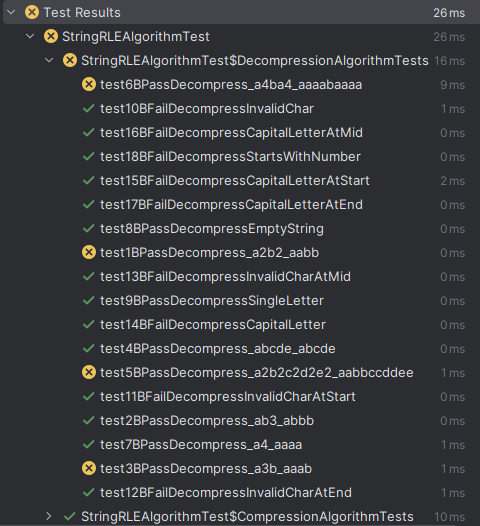
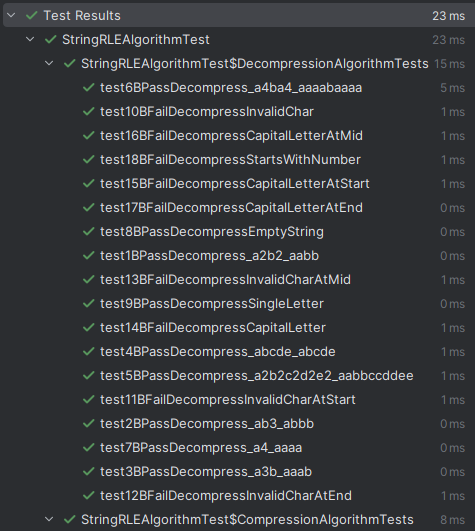
fix: Decompress repeating chars one too many times

diff --git a/src/main/java/vortrox/rle/StringRLEAlgorithm.java b/src/main/java/vortrox/rle/StringRLEAlgorithm.java
@@ -60,7 +60,7 @@ public class StringRLEAlgorithm {
             } else {
                 if (digits.length() > 0) {
                     // Append the last letter n - 1 times to the end of the output
-                    for (int j = 0; j < Integer.parseInt(digits.toString()); j++) {
+                    for (int j = 0; j < Integer.parseInt(digits.toString()) - 1; j++) {
                         output.append(lastLetter);
                     }
                 }
